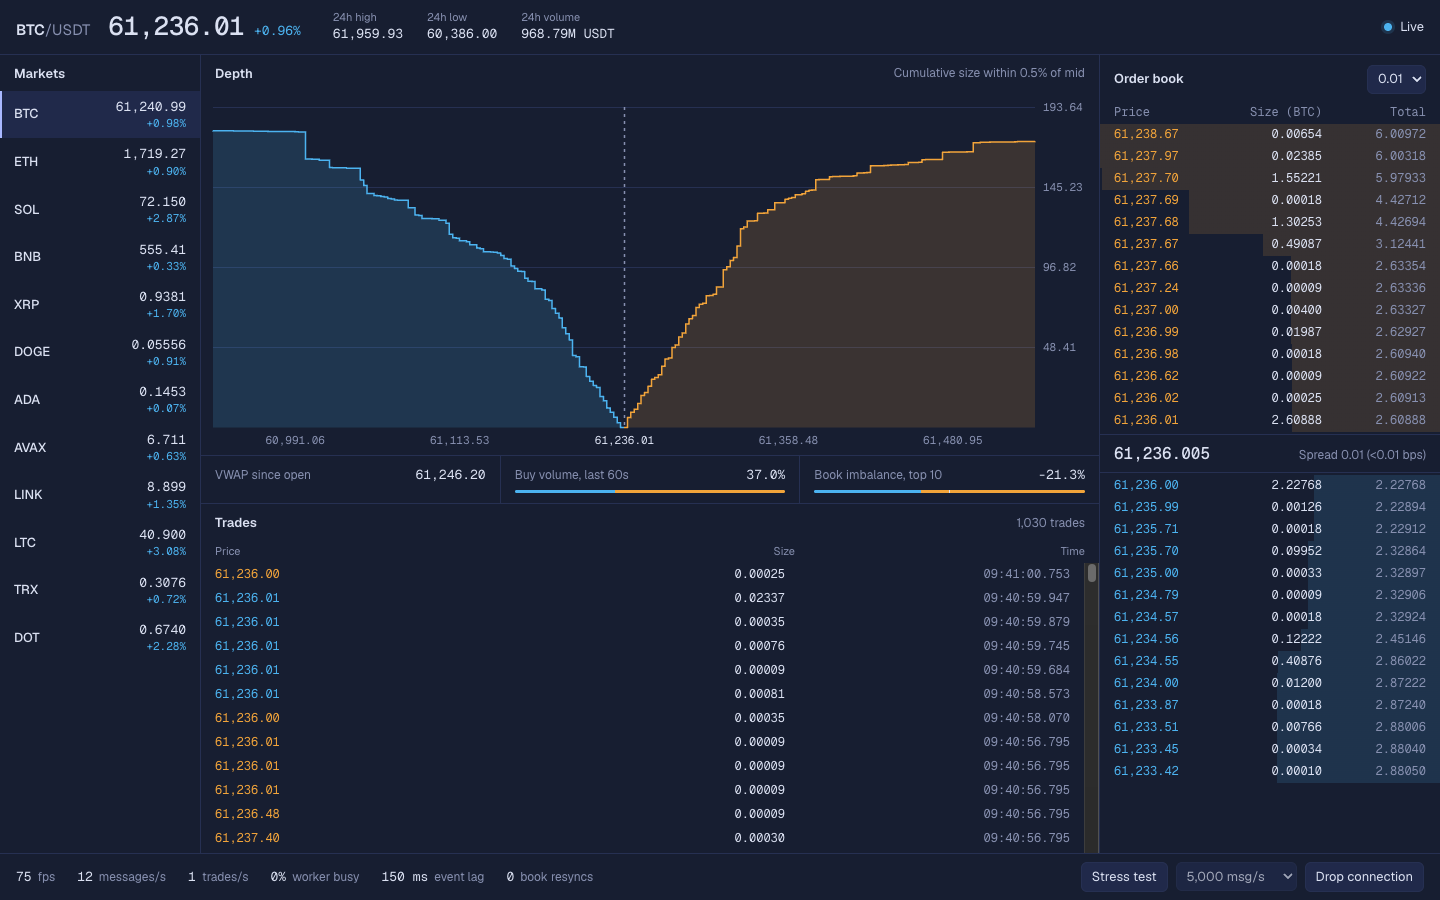
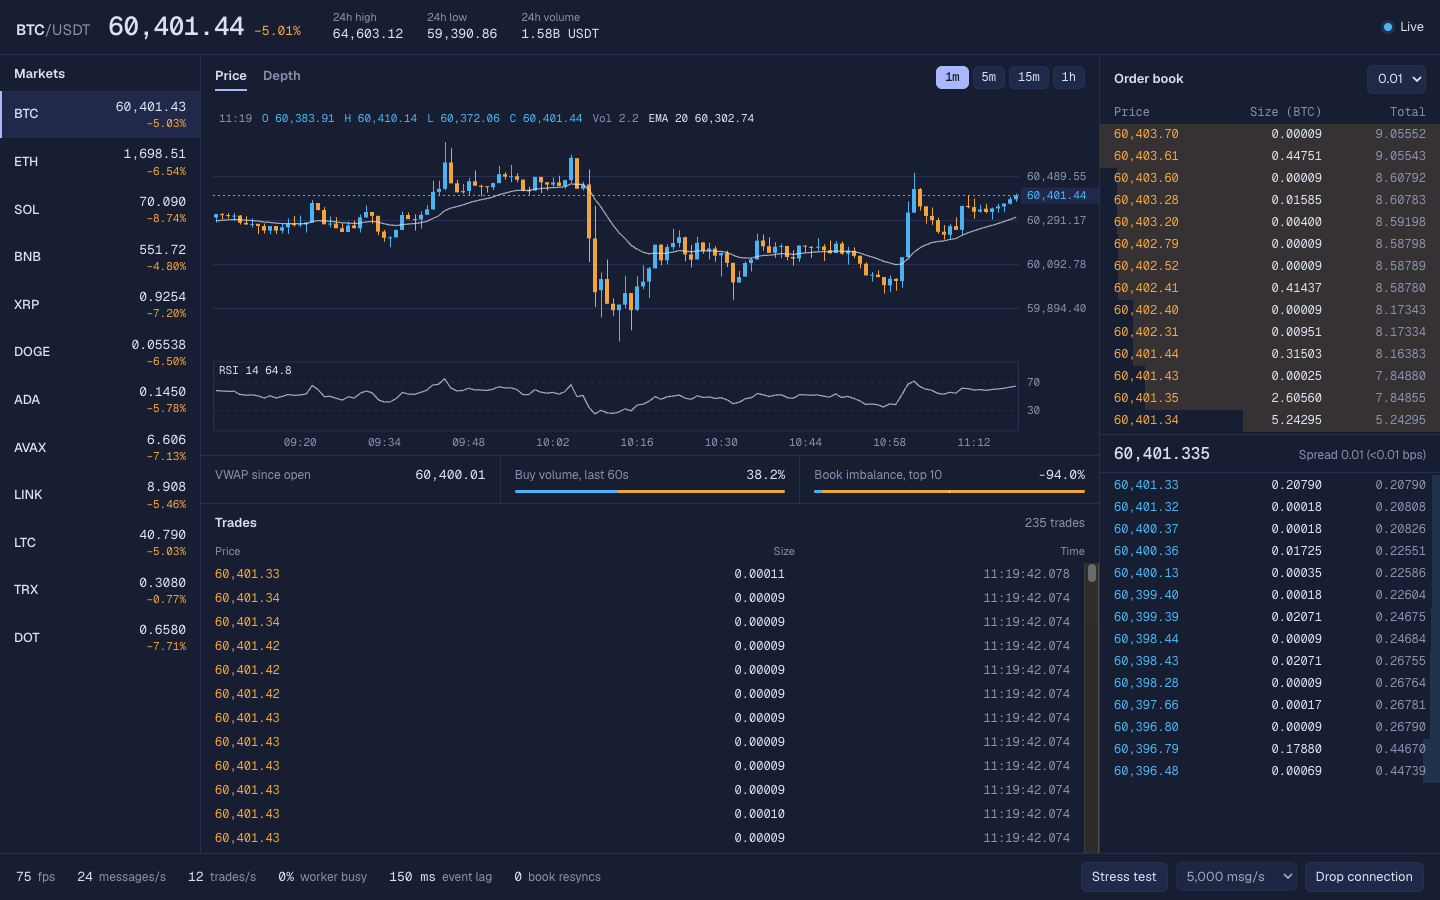
Describe the candle chart in the README
Adds the candles to the feature list, the diagram and the notes on how
the worker merges history with the stream, updates the test counts and
coverage, and retakes the screenshot on live BTC/USDT with the Price
tab open.

diff --git a/README.md b/README.md
@@ -1,6 +1,6 @@
 # Market Terminal
 
-A live crypto market screen in the browser: order book, depth chart, trade tape and order flow for 12 Binance spot pairs. It reads Binance's public market data directly and has no backend of its own.
+A live crypto market screen in the browser: price candles, order book, depth chart, trade tape and order flow for 12 Binance spot pairs. It reads Binance's public market data directly and has no backend of its own.
 
 Open it at [arthurfrollini.github.io/market-terminal](https://arthurfrollini.github.io/market-terminal/). Add `?stress=1` to start with the simulated 5,000 msg/s feed.
 
@@ -10,7 +10,8 @@ Open it at [arthurfrollini.github.io/market-terminal](https://arthurfrollini.git
 
 - Keeps a local copy of the Binance order book from a REST snapshot plus the 100 ms diff stream. When an update skips ahead in the sequence, the book throws itself away and resyncs; the status bar counts every resync.
 - Shows the top of the book as a ladder you can group by price step, with the spread in price and basis points.
-- Draws the cumulative depth within 0.5% of the mid on a canvas, with a crosshair and tooltip on hover.
+- Draws candles on a canvas at 1m, 5m, 15m or 1h, with EMA 20 over the price, RSI 14 below and the candle under the pointer in a legend. History comes from REST and the current candle from the kline stream. Changing the interval swaps the subscription on the open socket, so the order book doesn't lose its sync.
+- Draws the cumulative depth within 0.5% of the mid on a canvas, with a crosshair and tooltip on hover. It shares a tab with the candles.
 - Lists every trade in a virtualized tape that holds the last 10,000. Scroll down and the list stays put while new trades arrive, with a button to jump back to the latest.
 - Computes VWAP since the stream opened, the buy share of volume over the last 60 s and the imbalance of the top 10 book levels.
 - Reconnects on its own after a dropped connection, and also after 10 s of silence, which catches a socket that looks open but has stopped delivering. "Drop connection" in the status bar cuts the socket so you can watch it recover.
@@ -24,19 +25,19 @@ React 19, TypeScript, Vite, TanStack Query, TanStack Virtual and Zustand. Tests 
 flowchart TB
   subgraph Binance
     direction LR
-    WS[WebSocket: depth diffs, trades, mini ticker]
-    REST[REST: exchange info, 24h tickers, depth snapshot]
+    WS[WebSocket: depth diffs, trades, mini ticker, klines]
+    REST[REST: exchange info, 24h tickers, depth snapshot, klines]
   end
   subgraph Worker[Web Worker]
     direction LR
-    Socket[ReconnectingSocket] --> Engine[MarketEngine: parse, order book, grouping, indicators]
+    Socket[ReconnectingSocket] --> Engine[MarketEngine: parse, order book, candles, grouping, indicators]
   end
   subgraph Main[Main thread]
     Query[TanStack Query] --> Client[MarketClient: one pull per animation frame]
     Client --> Store[Zustand store]
     Client --> Tape[(Trade ring buffer, 10k)]
     Store --> Ladder[Order book ladder]
-    Store --> Canvas[Depth chart canvas]
+    Store --> Canvas[Candle and depth chart canvases]
     Tape --> Virtual[Virtualized trade tape]
   end
   WS --> Socket
@@ -47,13 +48,15 @@ flowchart TB
 
 The main thread never touches the socket. A Web Worker owns the connection, parses the JSON, keeps the order book in sync and aggregates it. On each animation frame the UI asks the worker for whatever changed since the last frame, and only one request is in flight at a time. If the UI falls behind, messages pile up in the worker and collapse into the next frame instead of queueing on the main thread. Book levels and depth curves travel as typed arrays that are transferred, not copied.
 
-On the main thread, trades go into a ring buffer outside React state, and the store only holds a counter that tells the tape to re-render. Components select single fields from the store. The depth chart subscribes to the store directly and redraws its canvas only when the book changes or the pointer moves, so React never re-renders it.
+A kline event carries the whole current candle, so the worker replaces each candle by its open time. REST history and stream updates can arrive in either order without counting anything twice. On every reconnect the worker starts the series over and asks for history again, so candles that closed while it was offline come from REST. EMA and RSI are computed in the worker, and the candles travel to the UI as transferred typed arrays like the book.
 
-TanStack Query fetches the pair's tick size once and keeps it, polls the 24h tickers for the market list every 10 s, and fetches order book snapshots without caching them. Retries skip 4xx responses, except 429.
+On the main thread, trades go into a ring buffer outside React state, and the store only holds a counter that tells the tape to re-render. Components select single fields from the store. The candle and depth charts subscribe to the store directly and redraw their canvas only when their data changes or the pointer moves, so React never re-renders them. Only the chart on the open tab is mounted.
+
+TanStack Query fetches the pair's tick size once and keeps it, polls the 24h tickers for the market list every 10 s, and fetches order book snapshots and the last 500 candles without caching them. Retries skip 4xx responses, except 429.
 
 | Folder | What's in it |
 |---|---|
-| `src/domain/` | Pure logic with no I/O: Binance message types, the order book, level grouping, depth curves, indicators, the ring buffer |
+| `src/domain/` | Pure logic with no I/O: Binance message types, the order book, level grouping, depth curves, the candle series with EMA and RSI, indicators, the ring buffer |
 | `src/net/` | The WebSocket wrapper with backoff and the silence watchdog |
 | `src/worker/` | `MarketEngine`, which turns raw messages into frames and runs in tests without a worker, and the worker that wires it to the socket |
 | `src/feed/` | The simulated feed for stress test mode |
@@ -90,17 +93,17 @@ Open `http://localhost:5173`. Add `?symbol=ETHUSDT` to start on another pair, or
 ```bash
 npm run typecheck
 npm run lint
-npm test        # Vitest: 124 tests
+npm test        # Vitest: 175 tests
 npm run coverage
-npm run e2e     # Playwright: 8 tests
+npm run e2e     # Playwright: 9 tests
 ```
 
-The unit tests cover the book sync rules (stale snapshots, gaps, buffered diffs), grouping, the indicators, the socket's backoff and watchdog with fake timers, and 500 rounds of the simulated feed at 20,000 msg/s without a gap or a crossed book. The main-thread client runs against a fake worker and a fake `requestAnimationFrame`, which checks that only one pull is ever in flight and that a failed snapshot is retried. The worker entry point runs against a fake WebSocket.
+The unit tests cover the book sync rules (stale snapshots, gaps, buffered diffs), grouping, the candle series (history and stream merged in either order, EMA and RSI against values worked out by hand), the indicators, the socket's backoff and watchdog with fake timers, and 500 rounds of the simulated feed at 20,000 msg/s without a gap or a crossed book. The main-thread client runs against a fake worker and a fake `requestAnimationFrame`, which checks that only one pull is ever in flight and that a failed snapshot is retried. The worker entry point runs against a fake WebSocket, including the interval switch on the open socket and dropping klines for the old interval.
 
-The components are tested with Testing Library in jsdom: the order book ladder, the trade tape with its scroll anchoring (with a stubbed viewport height so the virtualizer renders rows), the status bar controls, the market list and the depth chart, whose canvas calls are recorded by a fake 2D context.
+The components are tested with Testing Library in jsdom: the order book ladder, the trade tape with its scroll anchoring (with a stubbed viewport height so the virtualizer renders rows), the status bar controls, the market list, the chart tabs, and the candle and depth charts, whose canvas calls are recorded by a fake 2D context.
 
 Coverage is 100% of lines and 92% of branches. `npm run coverage` fails below 95% of lines or 85% of branches.
 
-The Playwright tests build the app in e2e mode and run it against a mock of Binance's REST and WebSocket endpoints served from one local Node process. They cover the book and its diffs, trades, reconnecting after the network drops, resyncing after a sequence gap, switching pairs, keeping 3,000 trades with only the visible rows in the DOM, and stress test mode. The `?ws=` and `?rest=` overrides that point the app at the mock only exist in dev and e2e builds; the production build compiles them out.
+The Playwright tests build the app in e2e mode and run it against a mock of Binance's REST and WebSocket endpoints served from one local Node process. They cover the book and its diffs, trades, reconnecting after the network drops, resyncing after a sequence gap, switching pairs, keeping 3,000 trades with only the visible rows in the DOM, stress test mode, and candles, including a switch to 5m on the same connection without a resync. The `?ws=` and `?rest=` overrides that point the app at the mock only exist in dev and e2e builds; the production build compiles them out.
 
 GitHub Actions runs all of these on every pull request and every push to `main`. A push to `main` that passes is published to GitHub Pages.
